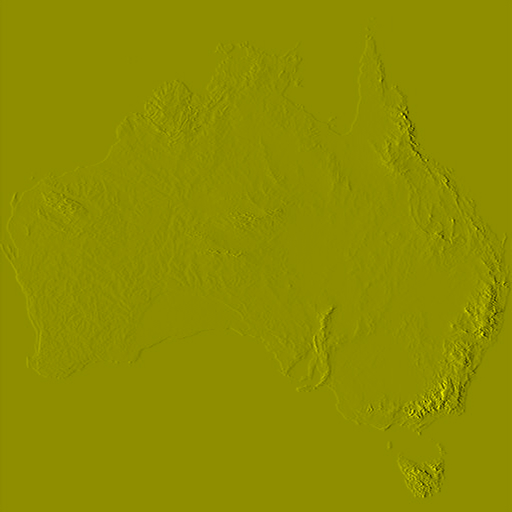
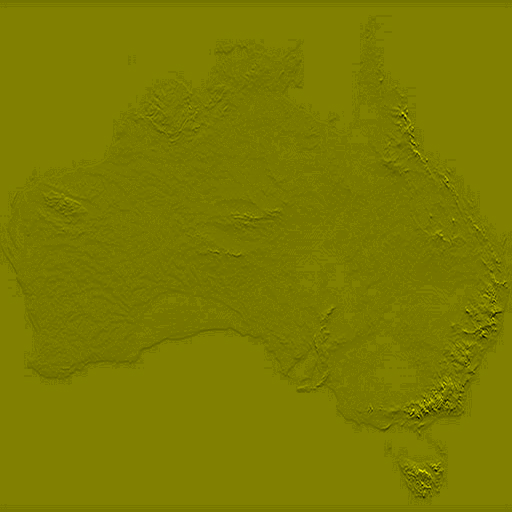
i, j fix

Changed region(s): [[0.0, 0.0, 1.0, 1.0]]

diff --git a/Heightfield.cpp b/Heightfield.cpp
@@ -26,50 +26,50 @@ Math::Vec2d Heightfield::Slope(const int i, const int j) const
 	{
 		if (i - 1 >= 0)
 		{
-			n.x = (mScalars[i + 1][j] - mScalars[i - 1][j]) / (2 * mScaleX / mScalars[0].size());
+			n.x = (mScalars[j][i + 1] - mScalars[j][i - 1]) / (2 * mScaleX / mScalars[0].size());
 		}
 		else
 		{
-			n.x = (mScalars[i + 1][j] - mScalars[i][j]) / (mScaleX / mScalars[0].size());
+			n.x = (mScalars[j][i + 1] - mScalars[j][i]) / (mScaleX / mScalars[0].size());
 		}
 
 		if (j + 1 < mScalars.size())
 		{
 			if (j - 1 >= 0)
-				n.y = (mScalars[i][j + 1] - mScalars[i][j - 1]) / (2 * mScaleX / mScalars.size());
+				n.y = (mScalars[j + 1][i] - mScalars[j - 1][i]) / (2 * mScaleX / mScalars.size());
 			else
-				n.y = (mScalars[i][j + 1] - mScalars[i][j]) / (mScaleX / mScalars.size());
+				n.y = (mScalars[j + 1][i] - mScalars[j][i]) / (mScaleX / mScalars.size());
 		}
 		else {
 			if (j - 1 >= 0)
-				n.y = (mScalars[i][j] - mScalars[i][j - 1]) / (mScaleX / mScalars.size());
+				n.y = (mScalars[j][i] - mScalars[j - 1][i]) / (mScaleX / mScalars.size());
 			else
-				n.y = mScalars[i][j];
+				n.y = mScalars[j][i];
 		}
 	}
 	else
 	{
 		if (i - 1 >= 0)
 		{
-			n.x = (mScalars[i][j] - mScalars[i - 1][j]) / (mScaleX / mScalars[0].size());
+			n.x = (mScalars[j][i] - mScalars[j][i - 1]) / (mScaleX / mScalars[0].size());
 		}
 		else
 		{
-			n.x = mScalars[i][j];
+			n.x = mScalars[j][i];
 		}
 
 		if (j + 1 < mScalars.size())
 		{
 			if (j - 1 >= 0)
-				n.y = (mScalars[i][j + 1] - mScalars[i][j - 1]) / (2 * mScaleX / mScalars.size());
+				n.y = (mScalars[j + 1][i] - mScalars[j - 1][i]) / (2 * mScaleX / mScalars.size());
 			else
-				n.y = (mScalars[i][j + 1] - mScalars[i][j]) / (mScaleX / mScalars.size());
+				n.y = (mScalars[j + 1][i] - mScalars[j][i]) / (mScaleX / mScalars.size());
 		}
 		else {
 			if (j - 1 >= 0)
-				n.y = (mScalars[i][j] - mScalars[i][j - 1]) / (mScaleX / mScalars.size());
+				n.y = (mScalars[j][i] - mScalars[j - 1][i]) / (mScaleX / mScalars.size());
 			else
-				n.y = mScalars[i][j];
+				n.y = mScalars[j][i];
 		}
 	}
 
@@ -98,18 +98,19 @@ std::pair<Scalarfield, Scalarfield> Heightfield::SlopeMap() const
 	double max_x = 0;
 	double max_y = 0;
 
-	for (unsigned i = 0; i < mScalars.size(); ++i)
+	for (unsigned j = 0; j < mScalars.size(); ++j)
 	{
-		for (unsigned j = 0; j < mScalars[i].size(); ++j)
+		for (unsigned i = 0; i < mScalars[i].size(); ++i)
 		{
 			auto slope = Slope(i, j);
-			x_field.mScalars[i][j] = slope.x;
-			y_field.mScalars[i][j] = slope.y;
+			x_field.mScalars[j][i] = slope.x;
+			y_field.mScalars[j][i] = slope.y;
 
 			min_x = std::min(min_x, slope.x);
 			min_y = std::min(min_y, slope.y);
 			max_x = std::max(max_x, slope.x);
 			max_y = std::max(max_y, slope.y);
+
 		}
 	}
 
@@ -118,6 +119,7 @@ std::pair<Scalarfield, Scalarfield> Heightfield::SlopeMap() const
 
 	y_field.mZMax = max_y;
 	y_field.mZMin = min_y;
+
 	return std::move(std::make_pair(std::move(x_field), std::move(y_field)));
 }
 

diff --git a/Scalarfield.hpp b/Scalarfield.hpp
@@ -42,13 +42,14 @@ protected:
 
 	friend class Layersfield;
 	friend class Heightfield;
+
 	Boxd mBox;
 	double mScaleX;
 	double mScaleY;
 
 	double mZMin;
 	double mZMax;
-	std::vector<std::vector<double>> mScalars;
+	std::vector<std::vector<double>> mScalars; // [row][col], [j][i]
 
 private:
 	double BilinearInterpolation(unsigned row, unsigned col, const double& u, const double& v) const;

diff --git a/main.cpp b/main.cpp
@@ -16,7 +16,7 @@ int main()
 
 	field.Save("saved.png");
 	auto maps = field.SlopeMap();
-	maps.first.Save("x_slope.png", Color::Yellow);
+	maps.first.Save("x_slope.png");
 	maps.second.Save("y_slope.png", Color::Yellow);
 	return 0;
 }
